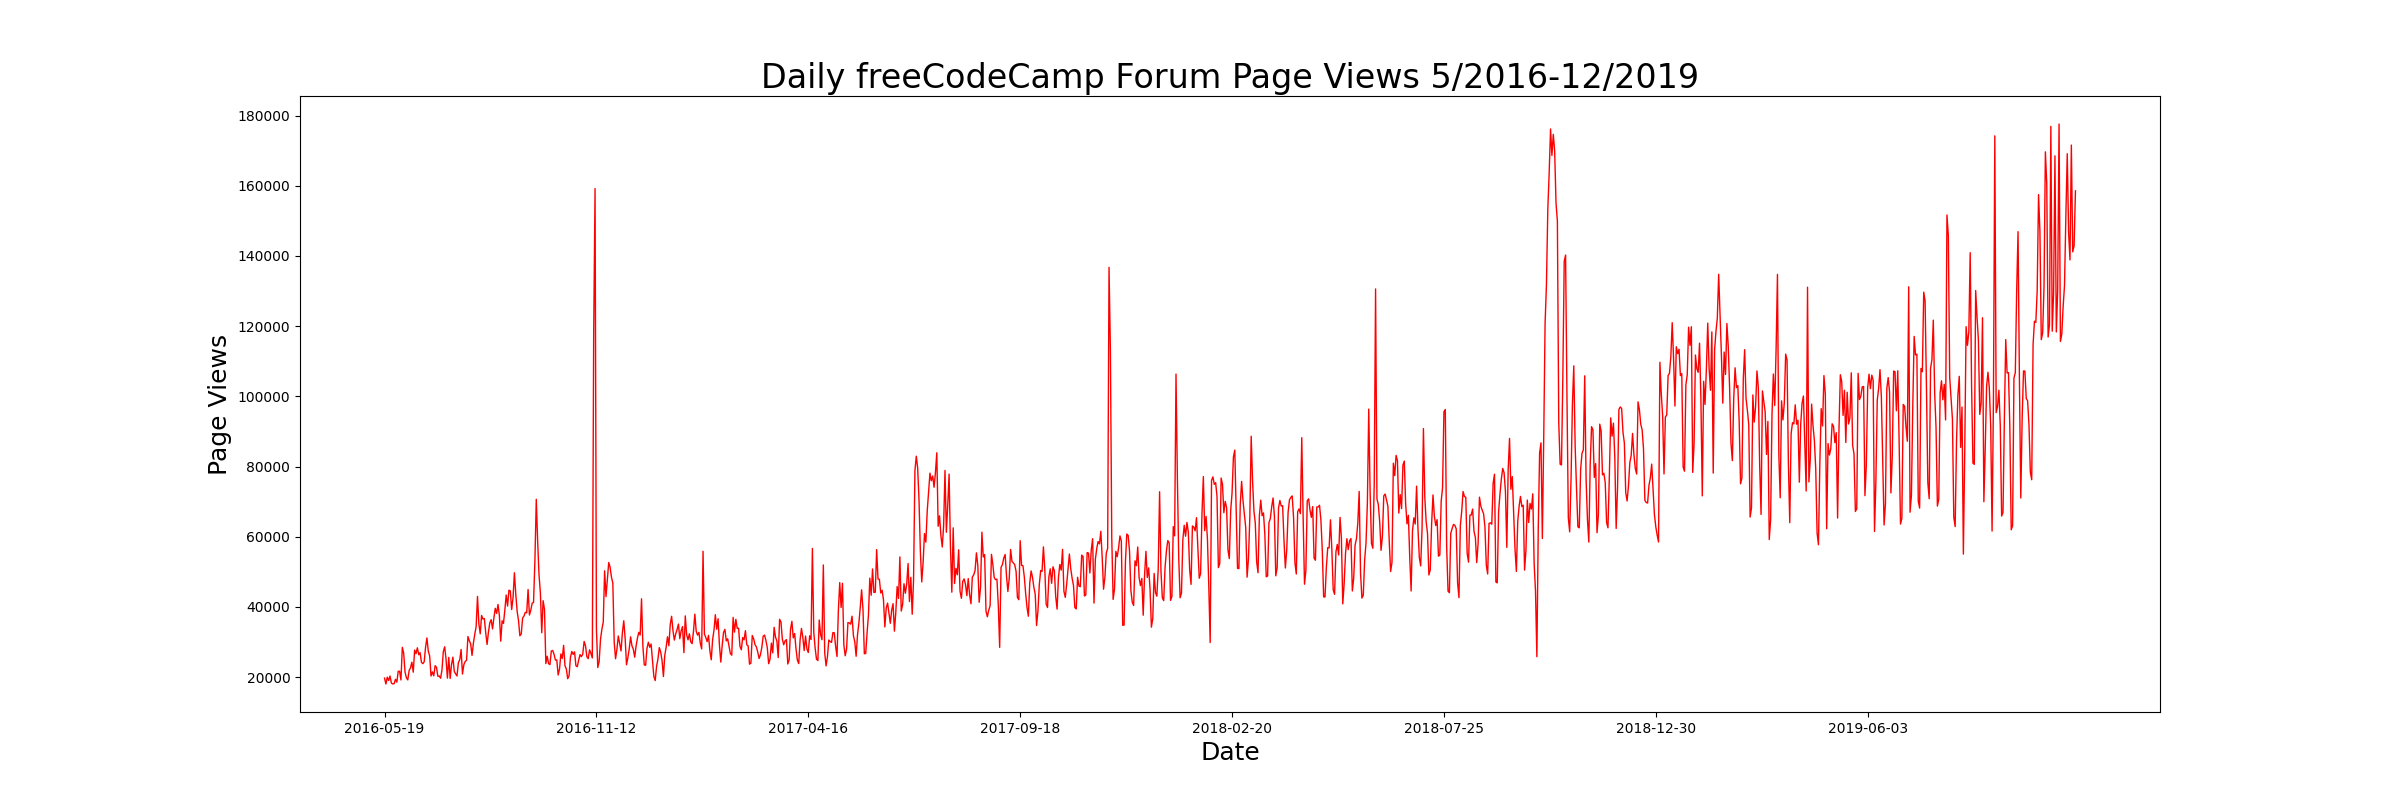
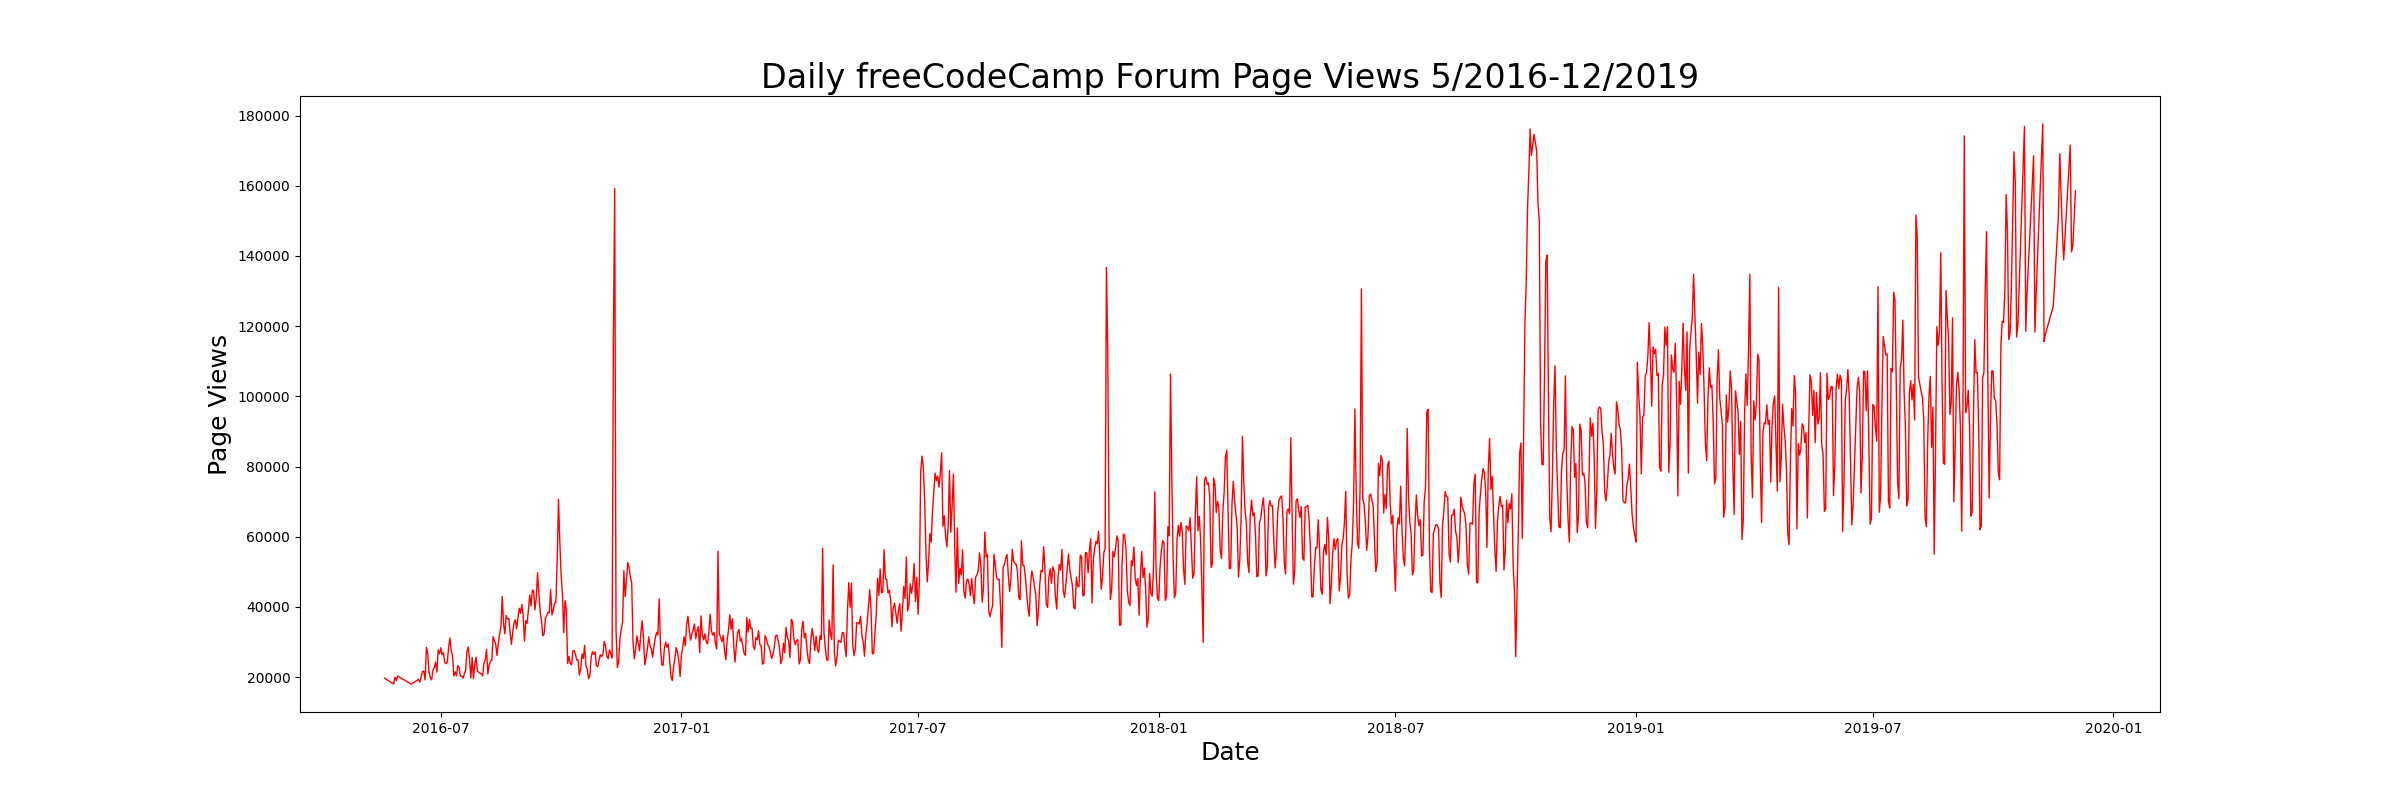
Add a line to set the date format in the dataframe becasuse without format the draw bar plot function does not work

diff --git a/time_series_visualizer.py b/time_series_visualizer.py
@@ -6,7 +6,9 @@ register_matplotlib_converters()
 
 # Import data (Make sure to parse dates. Consider setting index column to 'date'.)
 path = 'fcc-forum-pageviews.csv'
-df = pd.read_csv(path).set_index('date')
+df = pd.read_csv(path)
+df["date"] = pd.to_datetime(df["date"])
+df = df.set_index('date')
 #print(df)
 
 # Clean data
@@ -21,11 +23,11 @@ def draw_line_plot():
     ax.set_title("Daily freeCodeCamp Forum Page Views 5/2016-12/2019", fontsize = 24)
     ax.set_xlabel("Date", fontsize = 18)
     ax.set_ylabel("Page Views", fontsize = 18)
-    plt.setp(ax, xticks = range(0, 1238, 155))
 
     # Save image and return fig (don't change this part)
     fig.savefig('line_plot.png')
     return fig
+draw_line_plot()
 
 def draw_bar_plot():
     # Copy and modify data for monthly bar plot
@@ -47,6 +49,7 @@ def draw_bar_plot():
     # Save image and return fig (don't change this part)
     fig.savefig('bar_plot.png')
     return fig
+draw_bar_plot()
 
 def draw_box_plot():
     # Prepare data for box plots (this part is done!)
